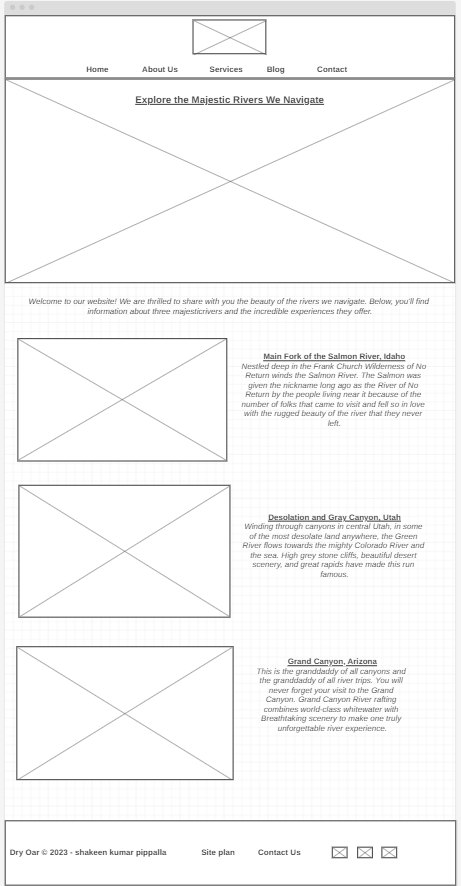
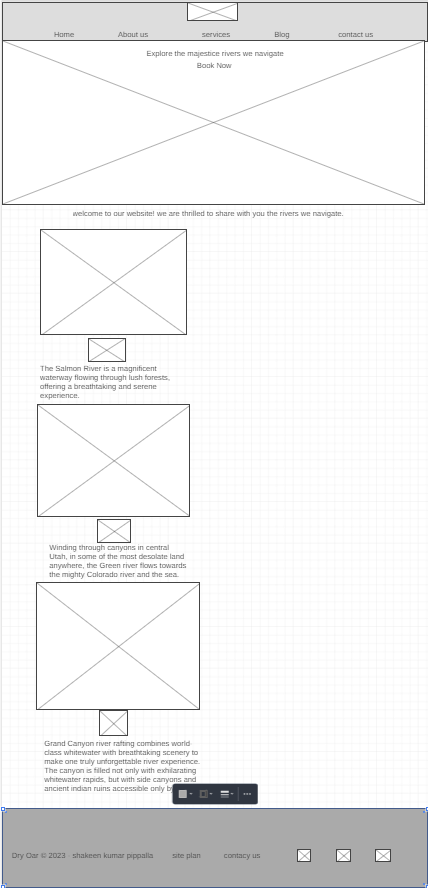
wdkfdjn

diff --git a/rivers.html b/rivers.html
@@ -35,27 +35,26 @@
         </section>
     </div>
     <main class="home-grid">
-        <section class="salmon river-card">
-            <img class="card-img" src="images/salmon river.jpg" alt="river in forest">
+        <section class="salmon-card">
+            <img class="card-img" src="images/salmon.jpg" alt="river in forest">
             <img class="icon" src="images/river_icon.png" alt="river icon">
-            <h2>salmon River</h2>
+            <section class="About1r">
+             <h2>salmon River</h2>
             <p>The Salmon River is a magnificent waterway flowing through lush forests, offering a breathtaking and serene experience.</p>
         </section>
-        <section class="camping-card">
-            <img class="card-img" src="images/camping.jpg" alt="tent in mountains">
-            <img class="icon" src="images/fire_icon.png" alt="fire icon">
-            <h2>Camping11</h2>
+        <section class="GrayCanyon-card">
+            <img class="card-img" src="images/GrayCanyon.jpg" alt="tent in mountains">
+            <img class="icon" src="images/river_icon.png" alt="fire icon">
+            <section class="About2"></section>
+            <h2>GrayCanyon</h2>
+            <p>Winding through canyons in central Utah, in some of the most desolate land anywhere, the Green river flows towards the mighty Colorado river and the sea.</p>
         </section>
-        <section class="rapids-card">
-            <img class="card-img" src="images/rapids.jpg" alt="rafting boat">
-            <img class="icon" src="images/oars.png" alt="oars icon">
-            <h2>Rapids</h2>
-        </section>
-        <img class="mountains" src="images/mountains.jpg" alt="Misty mountains">
-        <section class="msg">
-            <h2>More Than Just The Thrill</h2>
-            <p>Enjoy the breathtaking scenery. From valleys, meadows, canyons, and high peaks; it's way more than just the rapids. It's a great way to get away from it all and relax amongst all the beauty of the great outdoors. </p>
-            <a class='join' href="rivers.html">Join Us</a>
+        <section class="GrandCanyonArizona.-card">
+            <img class="card-img" src="images/GrandCanyonArizona.jpg" alt="rafting boat">
+            <img class="icon" src="images/river_icon.png" alt="oars icon">
+            <section class="About3"></section>
+            <h2>Grand Canyon Arizona.</h2>
+            <p>Grand Canyon river rafting combines world-class whitewater with breathtaking scenery to make one truly unforgettable river experience. The canyon is filled not only with exhilarating whitewater rapids, but with side canyons and ancient indian ruins accessible only by river.</p>
         </section>
     </main>
     <footer>

diff --git a/styles/styles.css b/styles/styles.css
@@ -236,7 +236,7 @@ nav {
     margin-top: 100px;
 }
 
-.river-card {
+.river1-card {
     background-color: #f7f7f7;
     border: 1px solid #ddd;
     border-radius: 8px;
@@ -246,33 +246,17 @@ nav {
 
 /* Add or modify these styles in your CSS file */
 
-/* Add or modify these styles in your CSS file */
+/* Place the grid items within the main grid */
+.salmon-card {
+    grid-column: 2 / span 3;
+    grid-row: 2 / span 1;
+} 
 
-.salmon {
-    display: flex;
-    flex-direction: column; /* Display items in a column */
-    align-items: center; /* Center items horizontally */
-    padding: 10px;
+.About1{
+    grid-column: 1 / span 3;
+    grid-row: 6 / 7;
 }
 
-.salmon h2 {
-    color: #e44d26;
-    margin-bottom: 10px; /* Add margin to create space between heading and paragraph */
-}
-
-.salmon p {
-    color: #333;
-    text-align: center; /* Align the paragraph to the center */
-}
-
-/* Remove white border from the Salmon River image */
-.card-img.salmon {
-    border: none;
-    width: 100%; /* Set the width to 100% to make the image larger */
-    height: 600px; /* Set a specific height for the image */
-    object-fit: cover; /* Maintain aspect ratio and cover the container */
-    border-radius: 10px;
-}
 /* Adjust font sizes */
 .book, .join {
     font-size: 18px;
